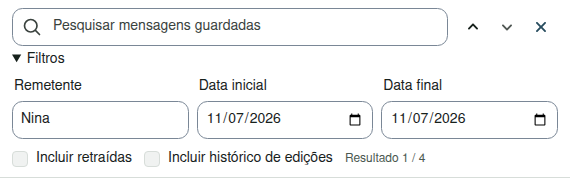
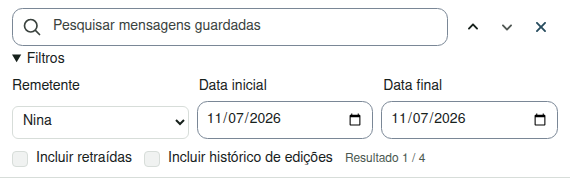
docs(search): show the group sender picker

diff --git a/content/docs/manual/index.md b/content/docs/manual/index.md
@@ -238,7 +238,7 @@ Para abrir **Detalhes da conversa**, clique na foto ou nas iniciais no cabeçalh
 
 Em uma conversa direta ou em um grupo, abra **Mais opções → Pesquisar mensagens**. Nos grupos, uma busca por texto também pode consultar o arquivo do servidor, quando disponível. Ative **Incluir histórico de edições** para encontrar versões anteriores de mensagens editadas. Use os [atalhos de busca](../atalhos/index.md#busca-na-conversa) para percorrer os resultados.
 
-Na versão em desenvolvimento após a rc.59, abra **Filtros** para pesquisar por **Remetente**, **Data inicial** ou **Data final**. Digite parte do nome que aparece na mensagem. Você pode deixar o texto da busca em branco e preencher apenas um filtro. O intervalo inclui as duas datas e segue o fuso horário escolhido no Oiê.
+Na versão em desenvolvimento após a rc.59, abra **Filtros** para escolher a **Data inicial** ou a **Data final**. Em grupos, você também pode escolher um **Remetente** na lista de participantes e autores das mensagens carregadas. Você pode deixar o texto da busca em branco e preencher apenas um filtro. O intervalo inclui as duas datas e segue o fuso horário escolhido no Oiê.
 
 [![Filtros da busca na conversa com o nome Nina e as duas datas preenchidas.](imagens/filtros-busca-conversa.webp)](imagens/filtros-busca-conversa.webp)
 
@@ -521,7 +521,7 @@ o campo de pesquisa para voltar às conversas ou às mensagens do chat.
 
 [![Busca sem conexão por “endereço” com resultados nas conversas Casa e Viagem.](imagens/pesquisar-mensagens-sem-conexao.webp)](imagens/pesquisar-mensagens-sem-conexao.webp)
 
-Na versão em desenvolvimento após a rc.59, **Filtros** também permite restringir os resultados por remetente e data dentro de uma conversa salva.
+Na versão em desenvolvimento após a rc.59, use **Filtros** para buscar por data em uma conversa salva. Nos grupos, você também pode escolher um remetente entre os autores das mensagens salvas no dispositivo.
 
 A busca alcança o texto guardado neste navegador. Se a mensagem que você procura
 ficou fora da cópia salva, reconecte o Oiê para pesquisar o histórico completo

diff --git a/content/docs/cli/index.md b/content/docs/cli/index.md
@@ -83,7 +83,7 @@ bin/oiectl messages search --q 'trilha' \
   --account-ids PESSOAL_UUID --account-ids TRABALHO_UUID --output json
 ```
 
-Com o motor e o CLI compilados para a API 0.46.0, use `--sender` para buscar por parte do nome do remetente em uma conversa. Preencha `--q ''` para usar só os filtros. O exemplo inclui o instante inicial e vai até o início do dia seguinte, com os horários em UTC. [Revisão com os filtros da busca](https://github.com/araihu/oie/tree/e72c714061676f1a597dfb780c69b996e16b004a)
+Com o motor e o CLI compilados para a API 0.46.0, use `--sender` para buscar por parte do nome do remetente em uma conversa. Preencha `--q ''` para usar só os filtros. O exemplo inclui o instante inicial e vai até o início do dia seguinte, com os horários em UTC. [Revisão com os filtros da busca](https://github.com/araihu/oie/tree/f2e3639f59ad5bc182c35b9f138bbb1719121d42)
 
 ```sh
 bin/oiectl messages search --conversation-id CONVERSATION_UUID --q '' \

diff --git a/README.md b/README.md
@@ -26,7 +26,7 @@ Ao atualizar **Baixar**, confira também os comandos e requisitos do [guia de in
 ## Documentação do Oiê
 
 Os filtros de busca por remetente e data no manual e no guia do CLI foram
-conferidos na [revisão e72c714 do Oiê](https://github.com/araihu/oie/tree/e72c714061676f1a597dfb780c69b996e16b004a),
+conferidos na [revisão f2e3639 do Oiê](https://github.com/araihu/oie/tree/f2e3639f59ad5bc182c35b9f138bbb1719121d42),
 com a API 0.46.0 em desenvolvimento após a rc.59.
 
 As seções **Ler conversas sem conexão** e **Pesquisar mensagens sem conexão**
